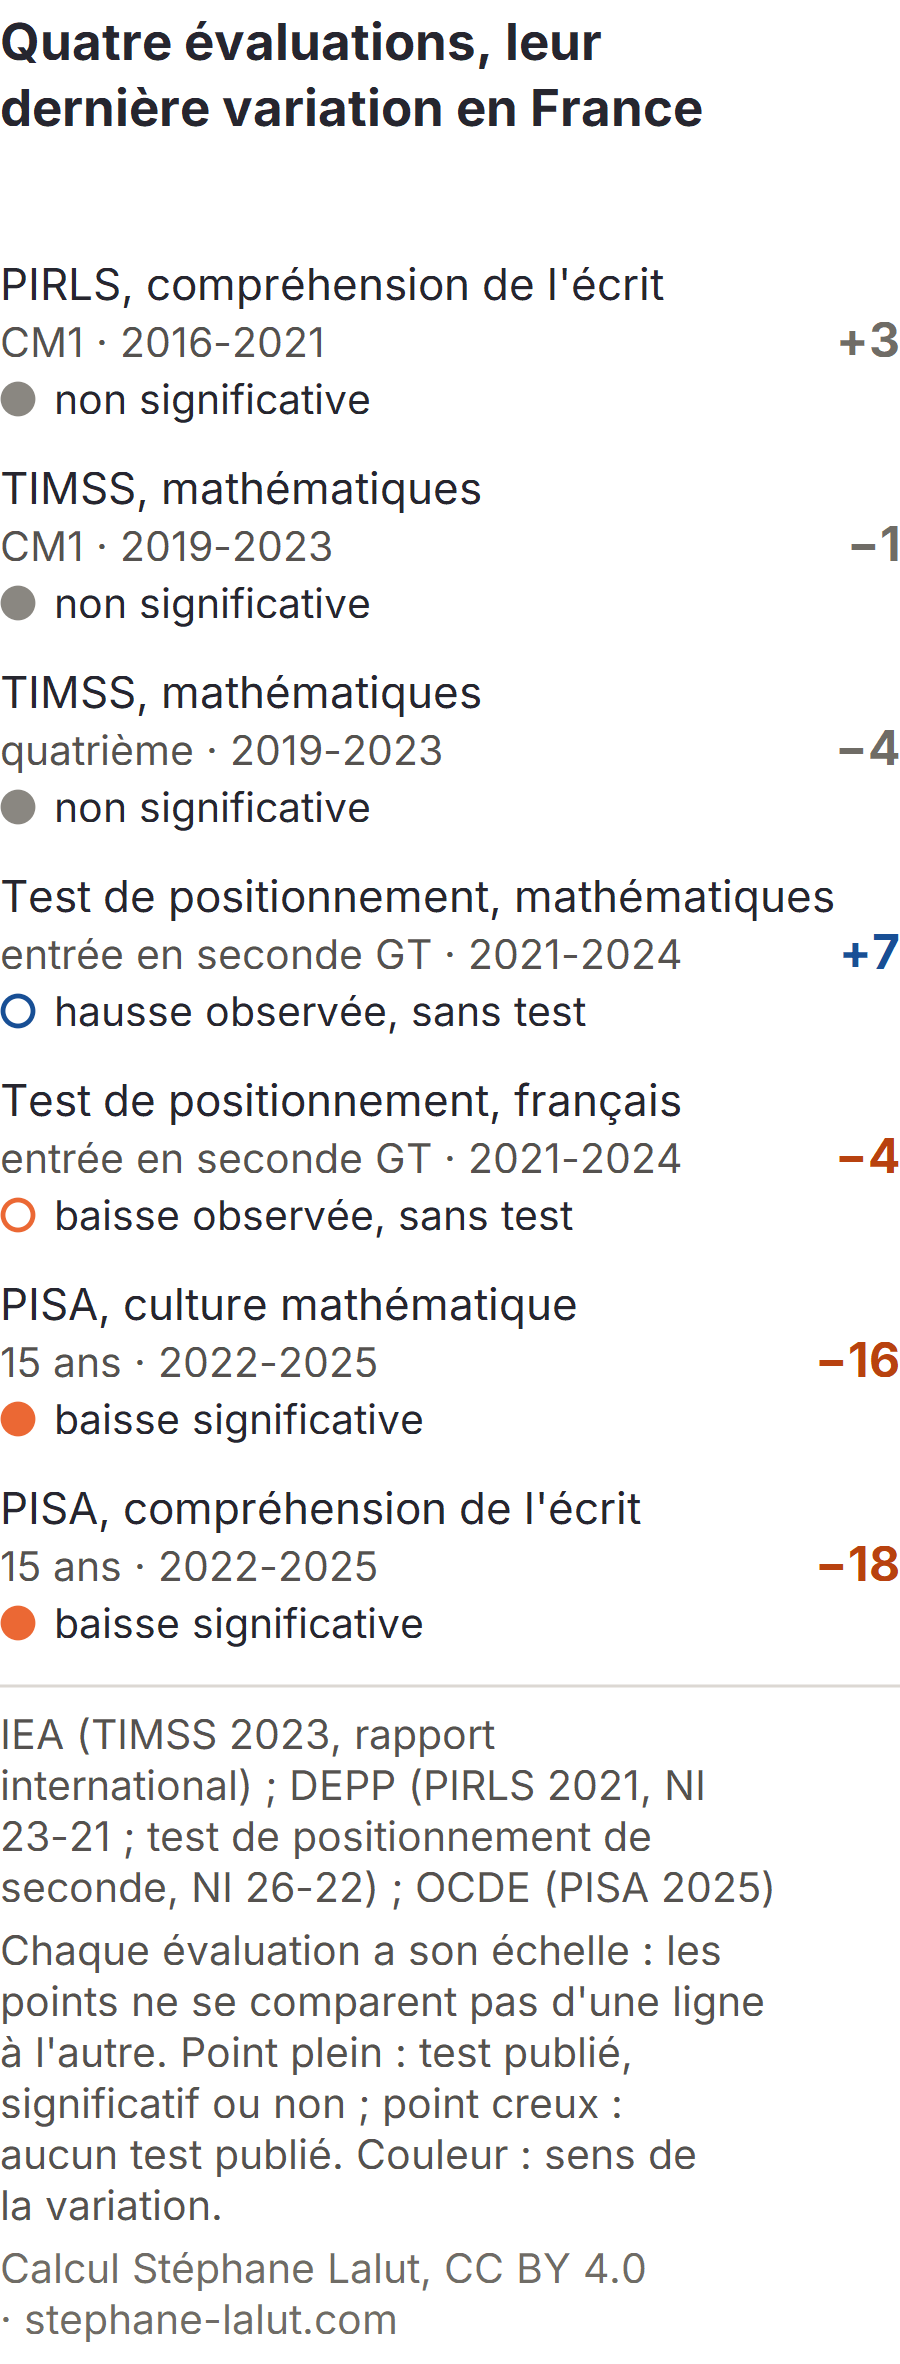
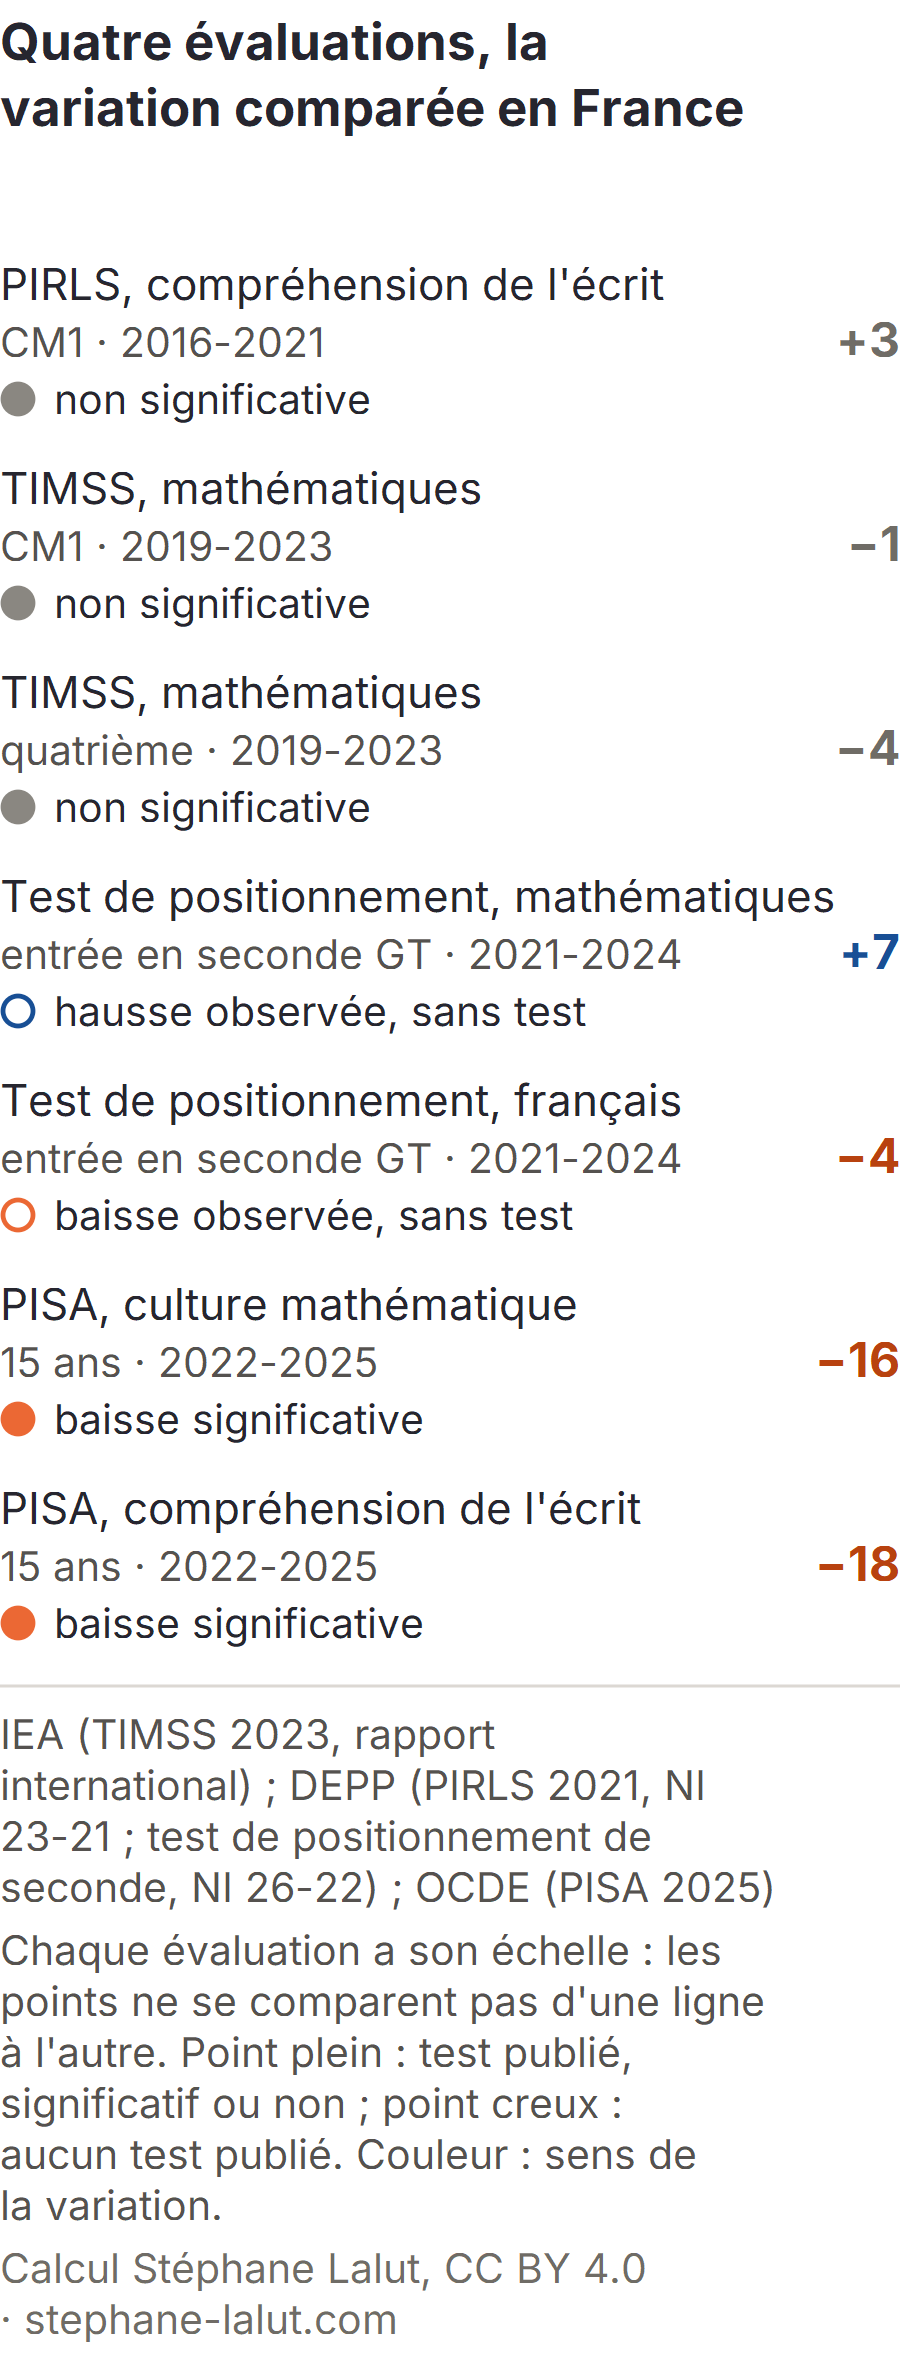
data(niveau): extrait (37 pays, protocole 8), gardes « premiere » et blocs citables ; figure « la variation comparee »
- Extrait du depot de recherche (commit cd0a3ce6 de D:\PRO) : effort declare recalcule sur les
  niveaux, la colonne de difference de la DEPP etant desalignee a partir du Luxembourg ; 37 pays,
  rang inchange ; bloc p8_premiere (VERDICT_8). Empreinte mise a jour.
- Gardes : trois affirmations sur « premiere et apres » et la premiere GT ; 37 pays dans le jeu ;
  aucune valeur saisie dans les reperes et les resultats en une phrase (modele : garde 6 de
  update_parcoursup.py). 117 gardes (99) ; 32 mutations, toutes vues mordre.
- Part des 15 ans encore au college affichee au dixieme (24,1 puis 9,5 %) : « moins d'un
  dixieme (... 10 %) » se contredisait ; garde d'affichage vue mordre.
- Figure des evaluations : « Quatre evaluations, la variation comparee en France » ; la fenetre
  2021-2024 du test de seconde dite dans la description et le texte « montre ».

Changed region(s): [[0.0, 0.0, 0.84, 0.0618]]

diff --git a/scripts/update_niveau_eleves.py b/scripts/update_niveau_eleves.py
@@ -119,7 +119,7 @@ def calcul(X):
         sec=X["seconde"], timss=X["timss_adv"], gen=gen, p1=p1, p2={int(a): v for a, v in X["p2"].items()},
         p3=X["p3"], p4=X["p4"], releve=X["releve_le"],
         t3=X["p3_timss_pisa_maths"], t4=X["p4_timss_pisa_facteurs"], p5=X["p5_donnees_individuelles"],
-        p6=X["p6_composition_conjointe"], p7=X["p7_controles"],
+        p6=X["p6_composition_conjointe"], p7=X["p7_controles"], p8=X["p8_premiere"],
         comp=X["p2_composition_sciences"], pct=X["p2_percentiles"], eff=X["p2_effort"], ae=X["p2_autres_evaluations"],
     )
 
@@ -207,6 +207,21 @@ def mutation(c):
         c["pct"]["mathematiques"]["France"][4] = c["pct"]["mathematiques"]["France"][0] / 2
     elif m == "effort":       # la France ne serait que troisième pour la baisse de l'effort déclaré
         c["eff"] = dict(c["eff"], rang=3)
+    elif m == "effort_n":     # le pays sans mesure de 2022 (Luxembourg) compterait de nouveau parmi les pays comparés
+        c["eff"] = dict(c["eff"], n_pays=38)
+    elif m == "premiere_sig":  # la variation de « première et après » deviendrait significative en sciences
+        c["p8"] = json.loads(json.dumps(c["p8"]))
+        c["p8"]["sciences"]["a_premiere_et_apres"]["ecart"]["significatif"] = True
+    elif m == "premiere_reste":  # le reste de la catégorie compterait trente élèves ou plus en 2025
+        c["p8"] = json.loads(json.dumps(c["p8"]))
+        c["p8"]["sciences"]["c_reste"]["2025"]["n"] = 30
+    elif m == "premiere_gt":  # la première générale et technologique ne serait plus plus basse en lecture
+        c["p8"] = json.loads(json.dumps(c["p8"]))
+        c["p8"]["lecture"]["b_premiere_gt"]["ecart"]["valeur"] = 0.5
+    elif m == "bloc_saisi":   # une valeur saisie dans un repère du haut de page
+        c["page_mut"] = ('fort: "Pas la même baisse récente"', 'fort: "Pas la même baisse récente, 3 points"')
+    elif m == "bloc_saisi_seconde":  # une valeur saisie dans le résultat en une phrase de la section « seconde »
+        c["page_mut"] = ("en mathématiques, il monte quand celui de PISA baisse.", "en mathématiques, il monte de 7 points quand celui de PISA baisse.")
     elif m is not None:
         fail("mutation inconnue : %s" % m)
     return m
@@ -254,7 +269,17 @@ def gardes(c):
         g(all(b < a for a, b in p5["N18"][d]["classes"].values()), "données individuelles, %s : « dans chacune des catégories, plus bas »" % d)
     sc = p5["N18"]["sciences"]["classes"]
     g([k for k, (a, b) in sc.items() if not b < a] == ["d_premiere"],
-      "données individuelles, sciences : « trois catégories sur quatre reculent ; la première et après ne baisse pas »")
+      "données individuelles, sciences : « plus bas en 2025 dans trois catégories sur quatre » (la quatrième : première et après)")
+    # protocole 8 (VERDICT_8.md, 12/11/2026) : les trois affirmations sur « première et après » et la première GT
+    p8 = c["p8"]
+    g(not any(p8[d]["a_premiere_et_apres"]["ecart"]["significatif"] for d in ("sciences", "mathematiques")),
+      "première et après : « en sciences comme en mathématiques, sa variation n'est pas significative »")
+    g(all(p8[d]["c_reste"][a]["n"] < 30 for d in DOM for a in ("2015", "2025"))
+      and p8["sciences"]["b_premiere_gt"]["ecart"]["valeur"] < 0 <= p8["sciences"]["a_premiere_et_apres"]["ecart"]["valeur"],
+      "première et après : « elle dépend des quelques élèves hors voie générale et technologique » (moins de trente élèves "
+      "chaque année ; sans eux, le signe s'inverse en sciences)")
+    g(all(p8[d]["b_premiere_gt"]["ecart"]["valeur"] < 0 for d in DOM),
+      "première générale et technologique : « le score moyen est plus bas en 2025 dans les trois domaines »")
     g(c["p6"]["compo"]["classe"]["d_premiere"][1] < 5
       and c["p6"]["compo"]["classe"]["d_premiere"][1] == min(v[1] for v in c["p6"]["compo"]["classe"].values()),
       "composition : « la petite catégorie première et après, environ 3 % des élèves »")
@@ -321,6 +346,9 @@ def gardes(c):
     # protocole 2, N10 (descriptif) : « la plus forte baisse de l'effort déclaré des pays de l'OCDE », « deux fois la moyenne »
     ef = c["eff"]
     g(ef["rang"] == 1 and ef["france_sig"], "effort : « la plus forte baisse », significative")
+    # 12/11/2026 : la prose ne cite plus le nombre de pays (« parmi les pays de l'OCDE mesurés aux deux dates ») ; le jeu
+    # publié doit compter les seuls pays mesurés en 2022 et en 2025 : 37, Luxembourg exclu (calc_niveau_2.py, N10).
+    g(ef["n_pays"] == 37, "effort : 37 pays mesurés aux deux dates dans le jeu publié (Luxembourg sans 2022)")
     g(1.8 <= ef["france_d"] / ef["ocde_d"] < 2.2, "effort : « deux fois la moyenne de l'OCDE »")
     for d in DOM:
         x = P[d]["dif"]["2015"]
@@ -408,6 +436,25 @@ def gardes(c):
     # P2/P3 : « de moitié » ; au secondaire plus que l'OCDE, l'inverse avec le primaire
     p2 = c["p2"]
     g(1.4 <= p2[max(p2)] / p2[min(p2)] <= 1.6, "P2 : « a augmenté de moitié »")
+    # Blocs citables (12/11/2026, modèle : garde 6 de update_parcoursup.py) : les repères du haut de page et chaque
+    # « résultat en une phrase » ne portent aucune VALEUR saisie, seulement des jetons. Les millésimes (1995-2025),
+    # écrits en clair sur cette page depuis l'origine, restent permis, comme « CM1 » et les niveaux de PISA nommés
+    # (« niveaux 5 et 6 », « niveau 2 ») et la population de PISA (« 15 ans ») : ce sont des noms, pas des valeurs.
+    page = (ROOT / "content" / "le-niveau-des-eleves-baisse-t-il" / "_index.md").read_text(encoding="utf-8")
+    if c.get("page_mut"):
+        assert page.count(c["page_mut"][0]) == 1, "mutation : passage introuvable"
+        page = page.replace(*c["page_mut"])
+    blocs = [("résultat en une phrase", x) for x in re.findall(r'<div class="resultat-phrase">(.*?)</div>', page, flags=re.S)]
+    blocs += [("repère du haut de page", x) for x in re.findall(r'^\s+(?:fort|texte|precision):\s*"(.*)"\s*$', page, flags=re.M)]
+    g(len([b for b in blocs if b[0].startswith("rés")]) >= 4 and len([b for b in blocs if b[0].startswith("rep")]) == 9,
+      "blocs citables : quatre « résultats en une phrase » au moins, trois repères de trois champs")
+    for nom_, x in blocs:
+        nu = re.sub(r"\{\{[<%].*?[%>]\}\}", " ", x, flags=re.S)
+        nu = re.sub(r"\{[a-z_]+\.[a-z0-9_]+\}", " ", nu)
+        nu = re.sub(r"<[^>]+>|&[a-z]+;|&#\d+;", " ", nu)
+        nu = re.sub(r"\b(?:19|20)\d\d\b|niveaux? \d(?: et \d)?|\b15 ans\b", " ", nu)
+        saisi = re.findall(r"\b\d[\d  ,.]*", nu)
+        g(not saisi, "bloc citable sans valeur saisie (%s) -- lu : %s" % (nom_, ", ".join(saisi[:3])))
     return n
 
 
@@ -509,7 +556,8 @@ def affichage(c):
         A["pirls_" + a[2:]] = nb(v["score"], 0)
     cp = c["comp"]
     pc = c["p6"]["compo"]["classe"]   # données individuelles (protocole 7 D)
-    A["comp_retard15"], A["comp_retard25"] = (nb(v, 0) for v in pc["a_troisieme_et_moins"])
+    # 12/11/2026 : au dixième, sinon « moins d'un dixième » s'affichait avec « 10 % » (9,5 au calcul)
+    A["comp_retard15"], A["comp_retard25"] = (nb(v, 1) for v in pc["a_troisieme_et_moins"])
     A["comp_pro15"], A["comp_pro25"] = (nb(v, 0) for v in pc["c_seconde_pro_cap"])
     A["comp_prem25"] = nb(pc["d_premiere"][1], 0)
     i1 = c["p7"]["A"]["I1"]["lecture"]
@@ -524,6 +572,8 @@ def affichage(c):
     A["eff_22"], A["eff_25"] = nb(ef["france"]["2022"], 2), nb(ef["france"]["2025"], 2)
     A["eff_d"], A["eff_od"] = nb(-ef["france_d"], 2), nb(-ef["ocde_d"], 2)
     A["eff_n"] = str(ef["n_pays"])
+    if not float(A["comp_retard25"].replace(",", ".").replace(" ", "")) < 10:
+        fail("affichage : « moins d'un dixième » contredit par la part affichée (%s %%)" % A["comp_retard25"])
     return A
 
 
@@ -565,10 +615,10 @@ FIG = {
         note="Baisse du score moyen, en points. Une baisse observée et deux standardisations descriptives, trois questions : aucune n'est « la vraie baisse », aucune ne mesure l'effet du redoublement.",
         montre="Trois mesures de la même baisse : observée ; plus forte à la répartition entre classes de 2015, parce qu'à 15 ans moins d'élèves sont encore au collège ; revenue près du niveau observé à la composition de 2015 pour la classe, le sexe et la famille. Ces calculs décrivent, ils n'attribuent pas de cause."),
     "thermometres": dict(
-        titre="Quatre évaluations, leur dernière variation en France",
+        titre="Quatre évaluations, la variation comparée en France",
         source="IEA (TIMSS 2023, rapport international) ; DEPP (PIRLS 2021, NI 23-21 ; test de positionnement de seconde, NI 26-22) ; OCDE (PISA 2025)",
         note="Chaque évaluation a son échelle : les points ne se comparent pas d'une ligne à l'autre. Point plein : test publié, significatif ou non ; point creux : aucun test publié. Couleur : sens de la variation.",
-        montre="Sur leurs dernières périodes, différentes, PISA à 15 ans baisse significativement ; PIRLS en CM1 et TIMSS en CM1 et en quatrième ne mettent pas en évidence de baisse significative ; le score du test d'entrée en seconde monte en mathématiques, sans test publié. Ces écarts de significativité ne prouvent pas que les tendances diffèrent."),
+        montre="Sur les périodes comparées, différentes, PISA à 15 ans baisse significativement ; PIRLS en CM1 et TIMSS en CM1 et en quatrième ne mettent pas en évidence de baisse significative ; le score du test d'entrée en seconde monte en mathématiques de 2021 à 2024, sans test publié. Ces écarts de significativité ne prouvent pas que les tendances diffèrent."),
     "sommet": dict(
         titre="Les élèves en difficulté et les meilleurs élèves, 2015 et 2025",
         source="OCDE, PISA 2025, volume I, tableaux I.B1.2a.34 et 35 ; moyenne de l'OCDE sur 35 pays comparables",
@@ -605,7 +655,7 @@ def fig_thermometres(c, A):
     for d_, lib in (("mathematiques", "PISA, culture mathématique"), ("lecture", "PISA, compréhension de l'écrit")):
         x = P[d_]["dif"]["2022"]
         lignes.append((lib, "15 ans", "2022-2025", x["v"], "baisse significative" if x["sig"] and x["v"] < 0 else "non significative"))
-    desc = "Tableau, dernière variation de chaque évaluation en France, dans sa propre échelle : " + " ; ".join(
+    desc = "Tableau, variation comparée de chaque évaluation en France, dans sa propre échelle (la dernière période publiée ; pour le test de seconde, les rentrées alignées sur PISA) : " + " ; ".join(
         "%s (%s, %s) %s%s points, %s" % (l, p, per, "+" if v > 0 else "", nb(v, 0), st) for l, p, per, v, st in lignes) + "."
     h = 60 + 34 * len(lignes) + 10
     e = tete("niv-t", t["titre"], desc, h + 52)
@@ -857,7 +907,7 @@ def fig_thermometres_m(c, A):
     svg_d = fig_thermometres(c, A)
     desc = html.unescape(re.search(r"<desc[^>]*>(.*?)</desc>", svg_d).group(1))
     lignes = [m for m in re.findall(r"([^;:]+?) \(([^,]+), (\d{4}-\d{4})\) ([+−-]?\d+) points, ([^;.]+)", desc)]
-    e, y = tete_m("niv-tm", "Quatre évaluations, leur dernière variation en France", desc)
+    e, y = tete_m("niv-tm", FIG["thermometres"]["titre"], desc)
     y += 6
     for lib, pop, per, v, st in lignes:
         col = ORANGE if st.startswith("baisse") else (BLEU if st.startswith("hausse") else GRIS)
